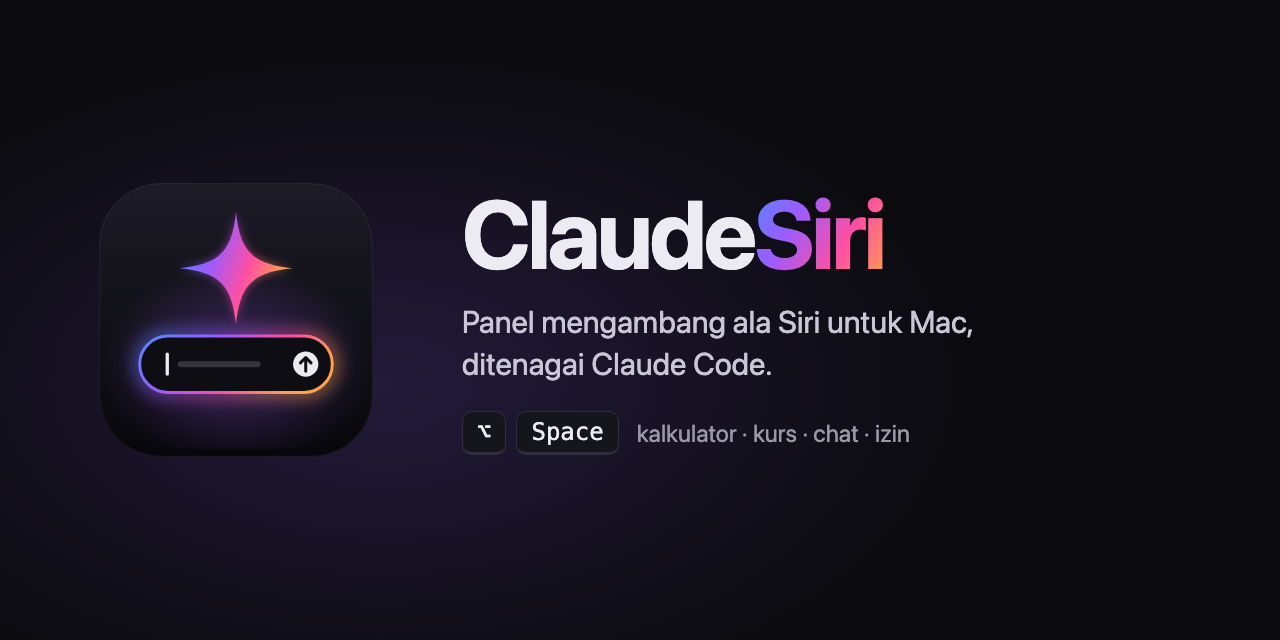
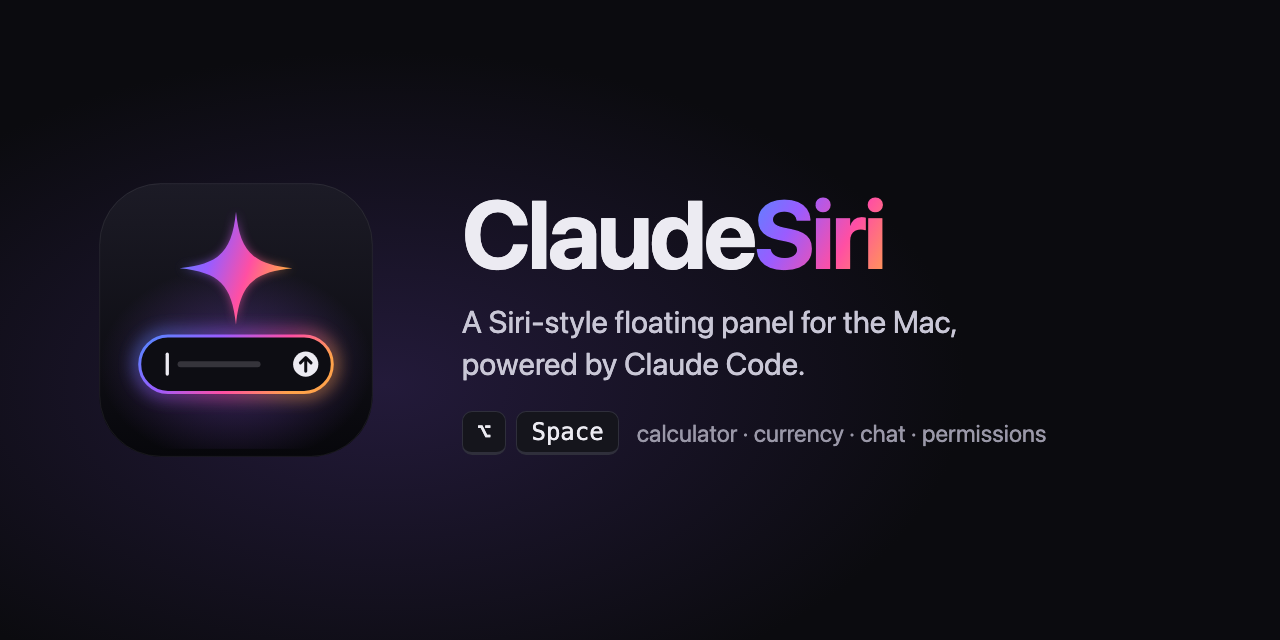
docs: rewrite README in English
- README.md fully in English, with glosses for the Indonesian calculator
  syntax (rb = thousand, jt = million, comma as decimal separator) and a
  note that the UI is currently in Indonesian.
- assets/banner.png re-rendered with an English tagline.
- Screenshots renamed: kalkulator.png → calculator.png,
  jawaban.png → answer.png, izin.png → permission.png.

Changed region(s): [[0.3438, 0.4688, 0.75, 0.5938], [0.5, 0.6562, 0.8125, 0.6875]]

diff --git a/README.md b/README.md
@@ -2,138 +2,139 @@
 
 # ClaudeSiri
 
-Panel mengambang ala Siri untuk Mac yang ditenagai **Claude Code**. Tekan **⌥Space** di app mana pun, ketik atau ucapkan pertanyaan, dan jawabannya muncul di kartu kecil di atas layar. Hitungan dan kurs dijawab di tempat, tanpa menunggu AI.
+A Siri-style floating panel for the Mac, powered by **Claude Code**. Press **⌥Space** over any app, type or say your question, and the answer shows up in a small card at the top of the screen. Math and currency questions are answered on the spot, without waiting for the AI.
 
-[![Demo ClaudeSiri — klik untuk memutar video](media/poster.jpg)](media/demo.mp4)
+[![ClaudeSiri demo: click to play the video](media/poster.jpg)](media/demo.mp4)
 
-> Video demo: [`media/demo.mp4`](media/demo.mp4) (95 detik, direkam langsung dari app, tanpa editing selain mempercepat satu jeda).
+> Demo video: [`media/demo.mp4`](media/demo.mp4). It is 95 seconds, recorded straight from the app. The only edit is one pause sped up. The demo uses the app in Indonesian, its default language.
 
-| Kalkulator lokal | Jawaban Claude | Kartu izin |
+| Local calculator | Claude's answer | Permission card |
 |---|---|---|
-| ![Kalkulator](media/kalkulator.png) | ![Jawaban](media/jawaban.png) | ![Izin](media/izin.png) |
+| ![Calculator](media/calculator.png) | ![Answer](media/answer.png) | ![Permission](media/permission.png) |
 
-## Fitur
+## Features
 
 **Panel**
-- Dibuka dengan **⌥Space** dari app mana pun, atau **⌥⇧Space** untuk langsung bicara.
-- Ada dua mode. Mode kecil berupa pill input dan kartu jawaban. Mode besar (**⌘E**) berupa chat penuh dengan riwayat.
-- Panel bisa digeser dan posisinya diingat. Muncul di semua Space dan di atas app layar penuh.
-- Di macOS 26 memakai efek **Liquid Glass**, yang bisa dimatikan dari menu bar.
+- Open it with **⌥Space** from any app, or **⌥⇧Space** to start talking right away.
+- Two modes. Compact mode is an input pill and an answer card. Expanded mode (**⌘E**) is a full chat with history.
+- The panel can be dragged and remembers its position. It appears on every Space and above full-screen apps.
+- Uses **Liquid Glass** on macOS 26. You can turn it off from the menu bar.
 
-**Kalkulator lokal (tanpa memanggil Claude)**
-- Paham format angka Indonesia: `1,5 jt / 4`, `250rb + 1,2jt`, `3jt - 15%`.
-- Kurs hanya dikonversi kalau tujuannya disebut: `250 eur idr`, `18000000 idr usd`, `200 usd - 1000000 idr`. `100 usd` saja tidak dikonversi.
-- Satuan: `5 km ke mil`, `30 c ke f`, `2 gb ke mb`, `120 m2 ke ft2`.
-- Tanggal: `90 hari lagi`, `umur 12 mei 1995`, `1 jan sampai 4 nov`.
-- Hasil muncul setelah kamu berhenti mengetik (0,5 detik). Klik tombol salin untuk menyalin angkanya.
+**Local calculator (no call to Claude)**
+- Understands Indonesian number formats: `1,5 jt / 4`, `250rb + 1,2jt`, `3jt - 15%`. Here `rb` is thousand, `jt` is million, and `,` is the decimal separator.
+- Converts currency only when a target is given: `250 eur idr`, `18000000 idr usd`, `200 usd - 1000000 idr`. `100 usd` on its own is not converted.
+- Units: `5 km ke mil`, `30 c ke f`, `2 gb ke mb`, `120 m2 ke ft2`. `to` and `in` work as well as `ke`.
+- Dates: `90 hari lagi` (90 days from now), `umur 12 mei 1995` (age), `1 jan sampai 4 nov` (days between).
+- The result appears once you stop typing (0.5 s). Click the copy button to copy the number.
 
 **Claude**
-- Jawaban di-stream langsung dari CLI `claude` memakai login claude.ai kamu, bukan API key.
-- Jawaban dirender sebagai markdown: tabel, blok kode dengan tombol Salin, dan link yang bisa diklik.
-- Bisa melampirkan gambar dengan tombol foto, tempel (⌘V), atau seret ke panel. Ada juga tombol **screenshot jendela** berupa ikon app yang sedang kamu pakai.
-- Teks yang sedang kamu pilih di app lain otomatis ikut sebagai konteks (butuh izin Aksesibilitas).
-- Input suara dengan pengenalan ucapan bahasa Indonesia atau Inggris. Pesan terkirim otomatis setelah kamu diam.
-- Bisa memilih model (Opus, Sonnet, Haiku). Di bawah tiap jawaban ada statistik: durasi, token, dan biaya.
-- Ada tombol stop yang menghentikan jawaban dengan rapi. Kalau panel tertutup, notifikasi muncul saat jawaban panjang selesai.
-- Riwayat chat bisa dicari, termasuk sesi yang dimulai dari terminal. Bisa dilanjutkan di Terminal (`claude --resume`).
+- Answers stream straight from the `claude` CLI and use your claude.ai login, not an API key.
+- Answers are rendered as markdown: tables, code blocks with a Copy button, and clickable links.
+- You can attach images with the photo button, paste them (⌘V), or drop them on the panel. There is also a **window screenshot** button, shown as the icon of the app you are using.
+- Text you have selected in another app is sent along as context (needs Accessibility permission).
+- Voice input with Indonesian or English speech recognition. The message is sent automatically once you stop talking.
+- Model picker (Opus, Sonnet, Haiku). Each answer shows its duration, tokens, and cost.
+- The stop button ends an answer cleanly. If the panel is hidden, a notification appears when a long answer finishes.
+- Searchable chat history, including sessions started from the terminal. Any chat can be continued in Terminal (`claude --resume`).
 
-**Izin**
-- Saat Claude mau mengubah sesuatu (Bash, Edit, Write), muncul kartu izin dengan pilihan **Tolak / Selalu: ‹aturan› / Izinkan semua / Izinkan**.
-- **Selalu** menyimpan aturan sempit seperti `Bash(git status:*)`. Perintah gabungan dan berbahaya (`rm`, `sudo`, `&&`, `|`) tidak pernah diusulkan jadi aturan.
-- Ada tiga mode izin, yang bisa diganti di header atau menu bar dan langsung berlaku di tengah chat:
+**Permissions**
+- When Claude wants to change something (Bash, Edit, Write), a permission card offers **Deny / Always: ‹rule› / Allow all / Allow**.
+- **Always** saves a narrow rule such as `Bash(git status:*)`. Compound or dangerous commands (`rm`, `sudo`, `&&`, `|`) are never suggested as rules.
+- There are three permission modes. You can switch between them in the panel header or the menu bar, and the change applies mid-chat:
 
-  | Mode | Perilaku |
+  | Mode | Behavior |
   |---|---|
-  | Tanya dulu | Kartu izin muncul untuk setiap tool yang mengubah sesuatu. |
-  | Selalu izinkan (**Auto**) | Semua permintaan disetujui otomatis oleh app. |
-  | Lewati semua izin (**Bypass**) | Sama dengan `--dangerously-skip-permissions`. |
+  | Ask first | A permission card appears for every tool that changes something. |
+  | Always allow (**Auto**) | The app approves every request automatically. |
+  | Skip all permissions (**Bypass**) | Same as `--dangerously-skip-permissions`. |
 
-## Pintasan
+## Shortcuts
 
-| Tombol | Fungsi |
+| Key | Action |
 |---|---|
-| ⌥Space | Buka/tutup panel |
-| ⌥⇧Space | Langsung bicara |
-| Enter | Kirim (hitungan dijawab lokal, sisanya ke Claude) |
-| ⌘Enter | Izinkan permintaan / paksa kirim ke Claude |
-| Esc | Tolak izin → stop → tutup |
-| ⌘E | Mode besar/kecil |
-| ⌘N | Chat baru |
-| ⌘Y | Riwayat |
-| ⌘T | Lanjutkan di Terminal |
-| ⌘A ⌘C ⌘V ⌘X ⌘Z | Edit seperti biasa (⌘V juga bisa menempel gambar) |
+| ⌥Space | Show/hide the panel |
+| ⌥⇧Space | Start voice input |
+| Enter | Send (math is answered locally, everything else goes to Claude) |
+| ⌘Enter | Allow the pending request / force send to Claude |
+| Esc | Deny permission → stop → hide |
+| ⌘E | Toggle expanded/compact |
+| ⌘N | New chat |
+| ⌘Y | History |
+| ⌘T | Continue in Terminal |
+| ⌘A ⌘C ⌘V ⌘X ⌘Z | Standard editing (⌘V also pastes images) |
 
-## Pasang
+## Install
 
-Yang dibutuhkan:
-- macOS 14 atau lebih baru (efek kaca butuh macOS 26).
-- Xcode atau Command Line Tools (Swift 5.9+).
-- [Claude Code](https://docs.claude.com/en/docs/claude-code) terpasang dan sudah login (`claude` bisa dijalankan di terminal).
+You need:
+- macOS 14 or later (the glass effect needs macOS 26).
+- Xcode or the Command Line Tools (Swift 5.9+).
+- [Claude Code](https://docs.claude.com/en/docs/claude-code), installed and logged in (`claude` runs in your terminal).
 
 ```sh
 git clone https://github.com/zerodevid/claudesiri.git && cd claudesiri
 ./build.sh
 ```
 
-`build.sh` melakukan build release, merakit `~/Applications/ClaudeSiri.app`, menandatanganinya, lalu menjalankannya. Saat pertama jalan, ClaudeSiri otomatis didaftarkan sebagai app login (bisa dimatikan dari menu ✦ › Jalan saat login).
+`build.sh` builds a release binary, assembles `~/Applications/ClaudeSiri.app`, signs it, and launches it. On first launch ClaudeSiri registers itself as a login item. You can turn that off in ✦ › Jalan saat login.
 
-Izin macOS yang diminta sesuai fitur yang dipakai:
+macOS asks for permissions only when you use the matching feature:
 
-| Izin | Untuk |
+| Permission | Used for |
 |---|---|
-| Aksesibilitas | Menyertakan teks yang sedang dipilih |
-| Screen Recording | Tombol screenshot jendela |
-| Mikrofon + Pengenalan Ucapan | Input suara |
+| Accessibility | Including the selected text |
+| Screen Recording | The window screenshot button |
+| Microphone + Speech Recognition | Voice input |
 
-Kalau punya sertifikat **Apple Development**, `build.sh` memakainya untuk menandatangani app, jadi izin di atas tidak hilang setiap build ulang. Tanpa sertifikat, dipakai tanda tangan ad-hoc.
+If you have an **Apple Development** certificate, `build.sh` signs the app with it, so these permissions survive rebuilds. Without one, it falls back to ad-hoc signing.
 
-### Catatan
+### Notes
 
-- ClaudeSiri membuang `ANTHROPIC_API_KEY`, `ANTHROPIC_BASE_URL`, dan `ANTHROPIC_AUTH_TOKEN` dari lingkungan proses `claude`, supaya yang dipakai login claude.ai dan bukan API key lama di `.zshrc`.
-- Kalau `claude` tidak ketemu, set path-nya: `defaults write id.zerodev.claudesiri claudePath /path/ke/claude`.
-- Folder kerja Claude default-nya home dan bisa diganti dari menu ✦ › Folder kerja.
+- ClaudeSiri strips `ANTHROPIC_API_KEY`, `ANTHROPIC_BASE_URL`, and `ANTHROPIC_AUTH_TOKEN` from the `claude` process environment. That way your claude.ai login is used instead of an old API key in `.zshrc`.
+- If `claude` cannot be found, set its path: `defaults write id.zerodev.claudesiri claudePath /path/to/claude`.
+- Claude's working folder defaults to your home folder. You can change it in ✦ › Folder kerja.
+- The interface is currently in Indonesian.
 
-## Cara kerja
+## How it works
 
 ```
-⌥Space ─► FloatingPanel (NSPanel nonactivating + SwiftUI)
+⌥Space ─► FloatingPanel (nonactivating NSPanel + SwiftUI)
               │
-              ├─ Calculator / UnitCalc ── jawab lokal (kurs open.er-api.com, kripto CoinGecko, cache 30 mnt)
+              ├─ Calculator / UnitCalc ── answered locally (rates from open.er-api.com, crypto from CoinGecko, 30 min cache)
               │
-              └─ ClaudeRunner ── satu proses `claude -p` per chat
-                    stdin : {"type":"user", message:{content:[teks, gambar]}}
-                    stdout: stream-json → teks, tool, control_request can_use_tool
-                    izin  : control_response allow/deny ← PermissionCard
-                    kontrol: interrupt · set_model · set_permission_mode
+              └─ ClaudeRunner ── one `claude -p` process per chat
+                    stdin  : {"type":"user", message:{content:[text, images]}}
+                    stdout : stream-json → text, tools, can_use_tool control_request
+                    perms  : allow/deny control_response ← PermissionCard
+                    control: interrupt · set_model · set_permission_mode
 ```
 
-| File | Isi |
+| File | Contents |
 |---|---|
-| `ClaudeRunner.swift` | Proses CLI, protokol stream-json, izin, stop, ganti model/mode |
-| `ChatModel.swift` | State chat, alur kirim, antrean izin, lampiran |
-| `Views.swift` | Semua tampilan SwiftUI (mode kecil, mode besar, kartu, menu) |
-| `App.swift` | Panel, hotkey Carbon, menu bar, notifikasi, shortcut |
-| `Calculator.swift` · `UnitCalc.swift` | Kalkulator, kurs, satuan, tanggal |
-| `Permissions.swift` | Aturan "selalu izinkan" dan mode izin |
-| `History.swift` | Indeks sesi dan pembaca transkrip `.jsonl` |
-| `ScreenContext.swift` | App depan, teks terpilih, screenshot jendela |
-| `Speech.swift` | Input suara |
-| `Markdown.swift` | Render markdown |
-| `Recorder.swift` | Perekam layar untuk dokumentasi |
+| `ClaudeRunner.swift` | CLI process, stream-json protocol, permissions, stop, model/mode switching |
+| `ChatModel.swift` | Chat state, send flow, permission queue, attachments |
+| `Views.swift` | All SwiftUI views (compact mode, expanded mode, cards, menus) |
+| `App.swift` | Panel, Carbon hotkeys, menu bar, notifications, shortcuts |
+| `Calculator.swift` · `UnitCalc.swift` | Calculator, currency rates, units, dates |
+| `Permissions.swift` | "Always allow" rules and permission modes |
+| `History.swift` | Session index and `.jsonl` transcript reader |
+| `ScreenContext.swift` | Frontmost app, selected text, window screenshot |
+| `Speech.swift` | Voice input |
+| `Markdown.swift` | Markdown rendering |
+| `Recorder.swift` | Screen recorder used for the docs |
 
-## Mode debug
+## Debug modes
 
 ```sh
-.build/release/ClaudeSiri --calc "250 eur idr" "3jt - 15%"   # uji kalkulator di terminal
-.build/release/ClaudeSiri --history                            # daftar sesi + isi sesi teratas
-.build/release/ClaudeSiri --snapshot /tmp/snap                 # render state UI ke PNG
+.build/release/ClaudeSiri --calc "250 eur idr" "3jt - 15%"   # test the calculator in the terminal
+.build/release/ClaudeSiri --history                            # list sessions + messages of the newest one
+.build/release/ClaudeSiri --snapshot /tmp/snap                 # render UI states to PNG
 open -g -n ~/Applications/ClaudeSiri.app --args --record /tmp/demo.mov 120 --display 1
 ```
 
 ## Logo
 
-Logo ada di [`assets/logo.svg`](assets/logo.svg). Isinya pill pencarian dengan border berpendar (warna yang sama dengan panel saat Claude bekerja) dan bintang empat sudut. `assets/AppIcon.icns` dibuat dari SVG itu dan dipasang oleh `build.sh`.
+The logo lives in [`assets/logo.svg`](assets/logo.svg). It shows a search pill with a glowing border, the same colors the panel shows while Claude works, and a four-point spark. `assets/AppIcon.icns` is generated from that SVG and installed by `build.sh`.
 
-## Lisensi
+## License
 
-[MIT](LICENSE) © 2026 Zero Dev. ClaudeSiri adalah proyek independen dan tidak berafiliasi dengan Anthropic maupun Apple. Claude adalah merek Anthropic; Siri adalah merek Apple.
+[MIT](LICENSE) © 2026 Zero Dev. ClaudeSiri is an independent project and is not affiliated with Anthropic or Apple. Claude is a trademark of Anthropic; Siri is a trademark of Apple.
